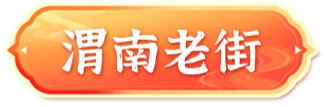
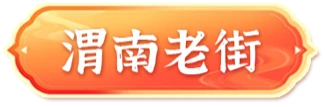
进一步压缩透明动效与按钮素材

diff --git a/config.js b/config.js
@@ -6,11 +6,11 @@ window.H5_CONFIG = {
     date: "2026.08.15—2026.09.30",
   },
   assets: {
-    home: "assets/pages/p1-home.webp?v=20260807h",
-    homePetals: "assets/pages/p1-petals.webp?v=20260807h",
-    homeTourButton: "assets/pages/p1-button-tour.webp?v=20260807h",
-    homePrizeButton: "assets/pages/p1-button-prize.webp?v=20260807h",
-    overview: "assets/pages/p2-overview.webp?v=20260807h",
+    home: "assets/pages/p1-home.webp?v=20260807i",
+    homePetals: "assets/pages/p1-petals.webp?v=20260807i",
+    homeTourButton: "assets/pages/p1-button-tour.webp?v=20260807i",
+    homePrizeButton: "assets/pages/p1-button-prize.webp?v=20260807i",
+    overview: "assets/pages/p2-overview.webp?v=20260807i",
     prize: "assets/pages/p4-entry.jpg",
     form: "assets/pages/p5-form.jpg",
   },
@@ -26,7 +26,7 @@ window.H5_CONFIG = {
       ],
       route: "山河东线",
       asset: "assets/spots/01-huashan.jpg",
-      buttonAsset: "assets/buttons/spots/01-huashan.webp?v=20260807h",
+      buttonAsset: "assets/buttons/spots/01-huashan.webp?v=20260807i",
     },
     {
       id: "cangjiemiao",
@@ -39,7 +39,7 @@ window.H5_CONFIG = {
       ],
       route: "文明非遗线",
       asset: "assets/spots/02-cangjiemiao.jpg",
-      buttonAsset: "assets/buttons/spots/02-cangjiemiao.webp?v=20260807h",
+      buttonAsset: "assets/buttons/spots/02-cangjiemiao.webp?v=20260807i",
     },
     {
       id: "qiachuan",
@@ -52,7 +52,7 @@ window.H5_CONFIG = {
       ],
       route: "黄河人文线",
       asset: "assets/spots/03-qiachuan.jpg",
-      buttonAsset: "assets/buttons/spots/03-qiachuan.webp?v=20260807h",
+      buttonAsset: "assets/buttons/spots/03-qiachuan.webp?v=20260807i",
     },
     {
       id: "hancheng",
@@ -65,7 +65,7 @@ window.H5_CONFIG = {
       ],
       route: "黄河人文线",
       asset: "assets/spots/04-hancheng.jpg",
-      buttonAsset: "assets/buttons/spots/04-hancheng.webp?v=20260807h",
+      buttonAsset: "assets/buttons/spots/04-hancheng.webp?v=20260807i",
     },
     {
       id: "tongguan",
@@ -78,7 +78,7 @@ window.H5_CONFIG = {
       ],
       route: "山河东线",
       asset: "assets/spots/05-tongguan.jpg",
-      buttonAsset: "assets/buttons/spots/05-tongguan.webp?v=20260807h",
+      buttonAsset: "assets/buttons/spots/05-tongguan.webp?v=20260807i",
     },
     {
       id: "fengtuyicang",
@@ -91,7 +91,7 @@ window.H5_CONFIG = {
       ],
       route: "黄河人文线",
       asset: "assets/spots/06-fengtuyicang.jpg",
-      buttonAsset: "assets/buttons/spots/06-fengtuyicang.webp?v=20260807h",
+      buttonAsset: "assets/buttons/spots/06-fengtuyicang.webp?v=20260807i",
     },
     {
       id: "yaotouyao",
@@ -104,7 +104,7 @@ window.H5_CONFIG = {
       ],
       route: "文明非遗线",
       asset: "assets/spots/07-yaotouyao.jpg",
-      buttonAsset: "assets/buttons/spots/07-yaotouyao.webp?v=20260807h",
+      buttonAsset: "assets/buttons/spots/07-yaotouyao.webp?v=20260807i",
     },
     {
       id: "laojie",
@@ -117,7 +117,7 @@ window.H5_CONFIG = {
       ],
       route: "山河东线",
       asset: "assets/spots/08-laojie.jpg",
-      buttonAsset: "assets/buttons/spots/08-laojie.webp?v=20260807h",
+      buttonAsset: "assets/buttons/spots/08-laojie.webp?v=20260807i",
     },
   ],
 };

diff --git a/index.html b/index.html
@@ -9,10 +9,10 @@
     <meta name="theme-color" content="#f3f1ec" />
     <meta name="description" content="6000年渭南一朵Hua" />
     <title>6000年渭南一朵Hua</title>
-    <link rel="preload" as="image" href="assets/pages/p1-home.webp?v=20260807h" fetchpriority="high" />
-    <link rel="preload" as="image" href="assets/pages/p1-button-tour.webp?v=20260807h" />
-    <link rel="preload" as="image" href="assets/pages/p1-button-prize.webp?v=20260807h" />
-    <link rel="stylesheet" href="styles.css?v=20260807h" />
+    <link rel="preload" as="image" href="assets/pages/p1-home.webp?v=20260807i" fetchpriority="high" />
+    <link rel="preload" as="image" href="assets/pages/p1-button-tour.webp?v=20260807i" />
+    <link rel="preload" as="image" href="assets/pages/p1-button-prize.webp?v=20260807i" />
+    <link rel="stylesheet" href="styles.css?v=20260807i" />
   </head>
   <body>
     <div class="app-shell" id="app">
@@ -31,7 +31,7 @@
       </div>
     </div>
 
-    <script src="config.js?v=20260807h"></script>
-    <script src="app.js?v=20260807h"></script>
+    <script src="config.js?v=20260807i"></script>
+    <script src="app.js?v=20260807i"></script>
   </body>
 </html>
